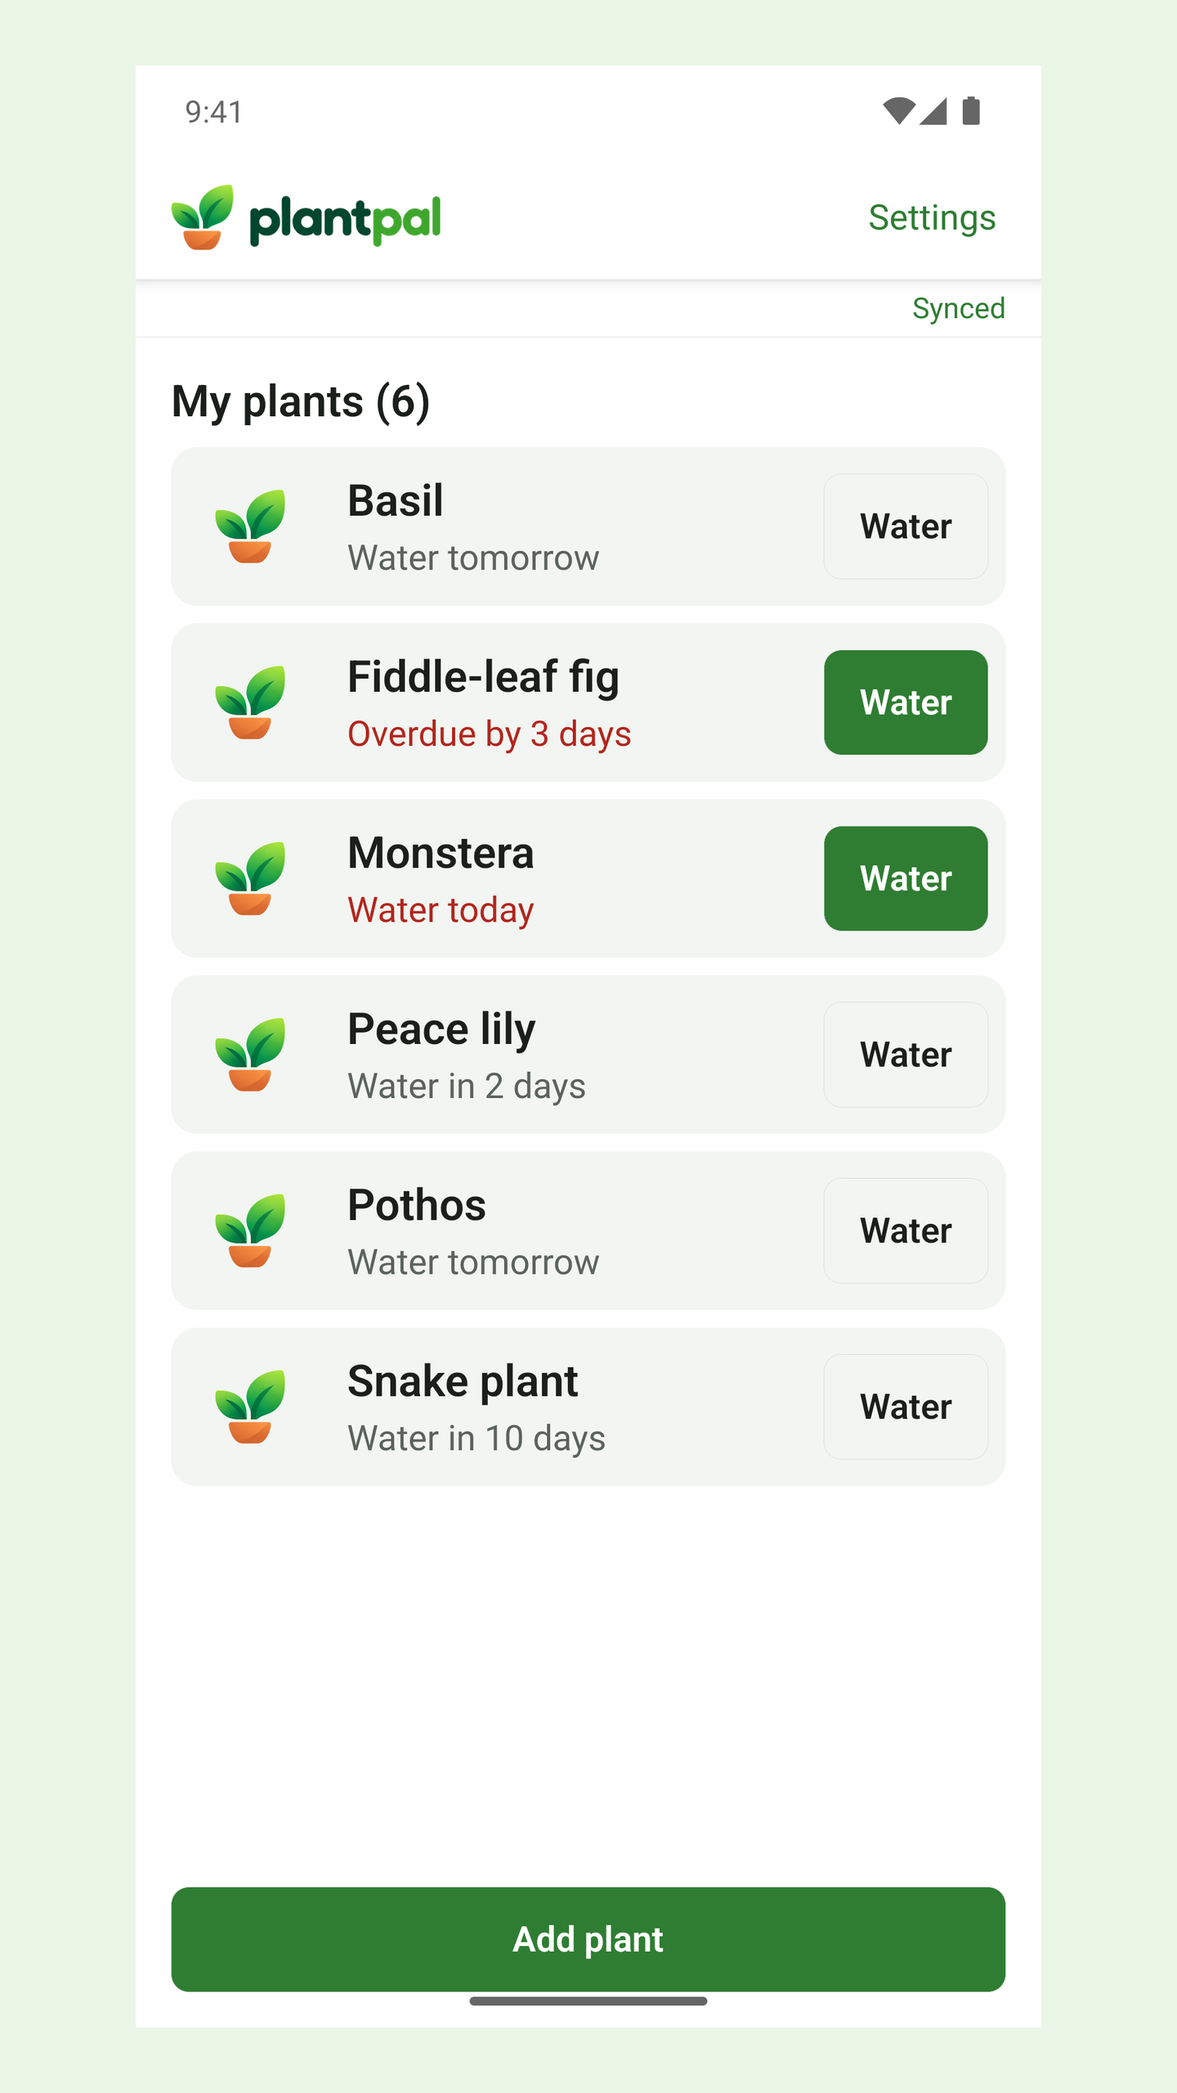
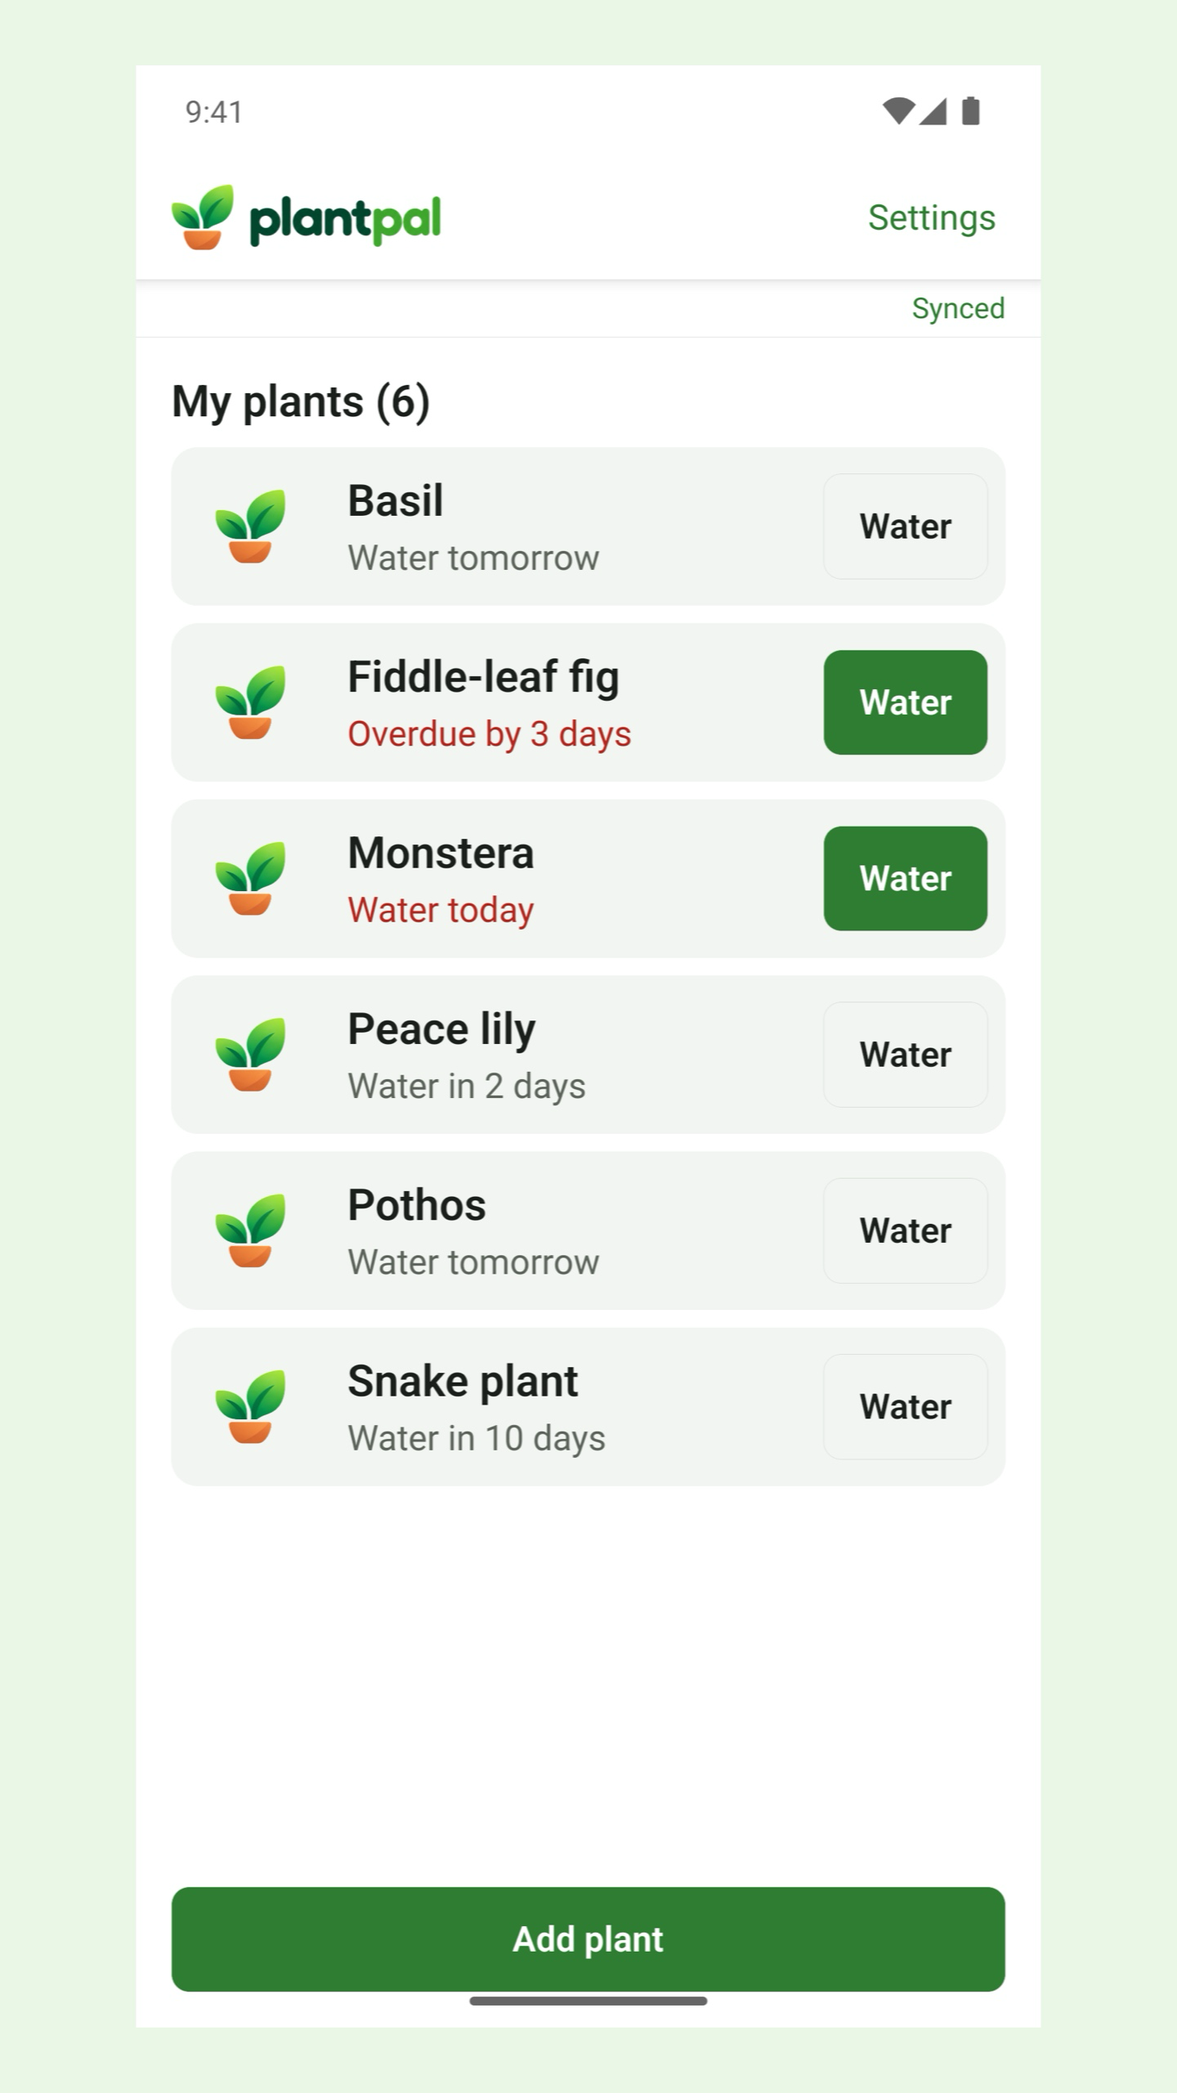
docs: M9.4 release prep (data safety, listings, checklist, README claims) and store screenshots in English and Spanish
Store screenshots come from seeded demo accounts (local API) with Android's demo status bar,
framed onto the 1440x2560 canvas by docs/release/screenshots/frame.sh.

diff --git a/docs/release/data-safety.md b/docs/release/data-safety.md
@@ -9,6 +9,13 @@ together.
 (purchases), Apple / Google sign-in, PostHog (optional usage analytics: a fixed event list, no
 autocapture, no session replay, opt-out in Settings). No crash-reporting or ad SDKs.
 
+**Identify with AI (M9):** the app sends a photo to our API only when the user taps "Identify with
+AI"; the API forwards it to Anthropic (Claude) and stores neither the photo nor the answer.
+Anthropic is a **service provider** processing it on our behalf (it deletes API inputs and outputs
+within 30 days and may not train on them: privacy policy, "Identify with AI"). We store one row per
+identification (time, model, result type, tokens, cost) for the daily limits, and a report's
+content when a user reports a suggestion.
+
 ## Google Play: Data safety
 
 | Question | Answer |
@@ -16,17 +23,17 @@ autocapture, no session replay, opt-out in Settings). No crash-reporting or ad S
 | Does the app collect or share any of the required user data types? | Yes |
 | Is all user data encrypted in transit? | Yes (HTTPS only: Vercel, Expo, RevenueCat, Google) |
 | Can users request that their data be deleted? | Yes: in the app (Settings > Delete account) and on the web (`/delete-account`) |
-| Is any data shared with third parties? | No. Vercel, Neon, Expo, RevenueCat and PostHog act as service providers on our behalf, which Google says is not "sharing" |
+| Is any data shared with third parties? | No. Vercel, Neon, Expo, RevenueCat, PostHog and Anthropic act as service providers on our behalf, which Google says is not "sharing" ("Transferring user data to a 'service provider' that processes it on behalf of the developer") |
 
 | Data type | Collected | Optional? | Purpose | Notes |
 |---|---|---|---|---|
 | Personal info > Email address | Yes | Optional (Apple lets users hide it) | Account management | From Apple/Google at sign-in |
 | Personal info > User IDs | Yes | Required | App functionality, Account management | Our account id; the Apple/Google subject id |
-| Photos and videos > Photos | Yes | Optional | App functionality | Plant photos the user adds; no metadata |
-| App activity > Other user-generated content | Yes | Required | App functionality | Plant names, watering intervals, watering times |
+| Photos and videos > Photos | Yes | Optional | App functionality | Plant photos the user adds; no metadata. **M9:** also sent to Anthropic (service provider) for "Identify with AI", only when tapped; not stored by us |
+| App activity > Other user-generated content | Yes | Required | App functionality | Plant names, watering intervals, watering times. **M9:** reports of AI suggestions (reason, optional note) |
 | Financial info > Purchase history | Yes | Optional (only if they buy) | App functionality | Plan and expiry; RevenueCat checks the store |
 | Device or other IDs | Yes | Optional (only with reminders on) | App functionality | Expo push token |
-| App activity > App interactions | Yes | Optional (opt-out in Settings) | Analytics | Fixed PostHog events (plant added/watered, photo added, reminders on, paywall viewed, purchase completed), linked to the random account id |
+| App activity > App interactions | Yes | Optional | Analytics, **App functionality (M9)** | Fixed PostHog events (plant added/watered, photo added, reminders on, paywall viewed, purchase completed), linked to the random account id, opt-out in Settings. **M9:** a record of each "Identify with AI" use (time, result type, cost) to enforce the daily limits |
 
 Not collected: location, name, contacts, messages, health, files, calendar, web history, crash logs, diagnostics, advertising ID. (PostHog adds the app version and phone model to events; that is part of the App interactions entry, not diagnostics.)
 
@@ -42,7 +49,7 @@ Not collected: location, name, contacts, messages, health, files, calendar, web 
 | Identifiers > User ID | Yes | No | App Functionality |
 | Identifiers > Device ID | Yes | No | App Functionality (push token) |
 | Purchases > Purchase History | Yes | No | App Functionality, Analytics (RevenueCat's own guidance says to select both) |
-| Usage Data > Product Interaction | Yes | No | Analytics (PostHog events; optional, opt-out in Settings) |
+| Usage Data > Product Interaction | Yes | No | Analytics (PostHog events; optional, opt-out in Settings), App Functionality (M9: AI identification records for the limits) |
 
 Not collected: Diagnostics (RevenueCat states it doesn't collect them; we ship no crash reporter), Location, Health, Financial Info, Contacts, Browsing/Search History, Sensitive Info.
 
@@ -64,3 +71,17 @@ Not collected: Diagnostics (RevenueCat states it doesn't collect them; we ship n
 - Google Play Console Help, "Provide information for Google Play's Data safety section" (support.google.com/googleplay/android-developer/answer/10787469)
 - Apple, "App privacy details on the App Store" (developer.apple.com/app-store/app-privacy-details)
 - RevenueCat, "Apple App Privacy" (revenuecat.com/docs/platform-resources/apple-platform-resources/apple-app-privacy)
+
+## M9 changes to make in Play Console (2026-10-20)
+Data safety > edit, then:
+1. **App activity > App interactions:** add the purpose **App functionality** (AI identification
+   records enforce the daily limits). It was Analytics only.
+2. **Photos:** no change (already collected, optional, App functionality). Anthropic is a service
+   provider, so nothing becomes "shared".
+3. **Other user-generated content:** no change (reports of AI suggestions fit the existing entry).
+4. The app's language stored with the push token is a device setting, not one of Play's data types.
+
+Store listing assets: Play asks per image whether it is AI-generated ("Regulations require that
+AI-generated content be labeled under certain circumstances"). The screenshots are real captures
+of the app; one shows an AI suggestion inside the app. Your call whether to tick it for that one
+([Play Console Help](https://support.google.com/googleplay/android-developer/answer/17262077)).

diff --git a/README.md b/README.md
@@ -18,8 +18,10 @@ isn't proven.
 ## What it does
 Sign in with Google (Apple on iOS), add plants with a photo and a watering interval, and tap
 **Water**. The list shows what's due; reminders arrive the morning a plant needs water; everything
-works offline and syncs across devices. Premium unlocks unlimited plants and photo
-history. Account deletion lives in Settings.
+works offline and syncs across devices. Not sure what the plant is? **Identify with AI** suggests
+its name and watering interval from a photo, and you confirm before saving. The app is in
+**English and Spanish**. Premium unlocks unlimited plants, photo history and more AI
+identifications. Account deletion lives in Settings.
 
 ## Architecture
 
@@ -92,18 +94,20 @@ Each claim links to the evidence that proves it. ✅ proven · 🟡 partly prove
 | **EAS Update** (OTA) on a staging channel, received by an installed build | [M7](docs/evidence/m7-release.md#eas-update-on-the-staging-channel) | ✅ |
 | **EAS Submit** to Google Play | [M8](docs/evidence/m8-portfolio.md#eas-submit-gap-7) | ✅ |
 | **CI**: secret scan, lint, typecheck, tests with coverage report; manual EAS build workflow | [M6](docs/evidence/m6-quality.md#ci) | ✅ |
-| Unit, component and integration tests (Jest, React Native Testing Library, Vitest with real Postgres) | [M6](docs/evidence/m6-quality.md), [M8](docs/evidence/m8-portfolio.md#fresh-clone-definition-of-done) | ✅ 190 tests, also from a fresh clone |
-| **Maestro** end-to-end flows: sign in, add offline then sync, paywall | [M6](docs/evidence/m6-quality.md#end-to-end-maestro-android-emulator-api-33-development-build) | 🟡 each passes alone; back-to-back runs flaky on the dev build |
+| Unit, component and integration tests (Jest with the React Compiler on, React Native Testing Library, Vitest with real Postgres) | [M6](docs/evidence/m6-quality.md), [M8](docs/evidence/m8-portfolio.md#fresh-clone-definition-of-done), [M9.3](docs/evidence/m9-ai-and-spanish.md#tests-1) | ✅ 248 tests, also from a fresh clone |
+| **Maestro** end-to-end flows: sign in, add offline then sync, paywall, add a plant with AI, switch language | [M6](docs/evidence/m6-quality.md#end-to-end-maestro-android-emulator-api-33-development-build) | 🟡 each passes alone; back-to-back runs flaky on the dev build |
 | Accessibility labels, roles, large text | [M6](docs/evidence/m6-quality.md#accessibility) | ✅ |
 | Performance check of the list | [M6](docs/evidence/m6-quality.md#performance-check-the-plant-list) | 🟡 query measured (1.4 ms / 1,000 plants); scroll smoothness not measured on a device |
 | **Analytics and a feature flag** with PostHog (privacy-first, opt-out) | [M8](docs/evidence/m8-portfolio.md#analytics-and-feature-flag-posthog-gap-9) | ✅ events from the Play build; A/B data not yet meaningful (one tester) |
 | Privacy policy, support and data-deletion pages; store privacy answers | [M7](docs/evidence/m7-release.md#privacy-support-and-deletion-pages-live), [data safety](docs/release/data-safety.md) | ✅ |
+| **Identify with AI** (Claude, server-side): structured output validated on both sides, pre-fill only, daily limits, spending guard, report button | [M9.1](docs/evidence/m9-ai-and-spanish.md#m91-api-2026-10-19), [M9.2](docs/evidence/m9-ai-and-spanish.md#m92-app-2026-10-20) | 🟡 tested and run on the emulator against the local API; not yet in a store build |
+| AI **evaluation**: 25 photos, 3 configurations, accuracy, latency and cost measured; model chosen from the numbers | [M9.1 evaluation](docs/evidence/m9-ai-and-spanish.md#evaluation) | ✅ Sonnet 5.5: 37/40 plant photos right, $0.0058 per identification |
+| **English and Spanish**: every screen, errors, notifications (local and server push), web pages, store listing; switch in Settings and on sign-in | [M9.3](docs/evidence/m9-ai-and-spanish.md#m93-spanish-2026-10-20) | 🟡 on the emulator; not yet in a store build |
 
 ## Roadmap
 | Next | What | Plan |
 |---|---|---|
-| **M9** | **Identify with AI:** take a photo and Claude suggests the plant's name and watering interval (pre-filled, the user confirms). Server-side Claude API calls, daily limits, an evaluation set, privacy and Play AI-policy updates. | [docs/prompts/M9_AI_AND_SPANISH.md](docs/prompts/M9_AI_AND_SPANISH.md) |
-| **M9** | **Spanish:** the whole app, notifications, web pages and store listing in English and Spanish; follows the phone's language, with a switch in Settings and on the sign-in screen. | same |
+| **M9** | Identify with AI and Spanish: built and tested (see the claims above); waiting for build 7 and internal testing | [plan](docs/M9_PLAN.md), [evidence](docs/evidence/m9-ai-and-spanish.md) |
 | Later | iOS release (TestFlight, App Store) once the Apple developer account is approved | [release checklist](docs/release/RELEASE_CHECKLIST.md) |
 
 ## Run it locally

diff --git a/docs/release/store-listing.md b/docs/release/store-listing.md
@@ -1,5 +1,7 @@
 # Store listing (App Store and Google Play)
 
+Spanish (es-419): [`store-listing.es.md`](store-listing.es.md). Updated for M9 (AI identification, Spanish) on 2026-10-20.
+
 Draft text, ready to paste. Character counts were checked by script against each store's limit.
 Every claim matches a feature with evidence in `docs/evidence/`.
 
@@ -19,16 +21,20 @@ PlantPal remembers which plant needs water, so you don't have to.
 
 Add your plants, say how often each one needs water, and tap Water when you water it. Your list always shows what is due today, what is overdue and what can wait.
 
+• Not sure what plant it is? Take a photo and tap Identify with AI for a suggested name and watering interval. You check it before saving.
 • Reminders on the morning a plant is due, plus a daily nudge if one is overdue
 • Works without internet: everything is saved on your phone and syncs when you are back online
 • The same plants on all your devices: sign in with Apple or Google
 • A photo history for each plant
 • Undo a watering you tapped by mistake
+• In English and Spanish
 
-Free: up to 3 plants, with one photo each.
-Premium: unlimited plants and photo history. Monthly, yearly or a one-time lifetime purchase.
+Free: up to 3 plants, with one photo each, and 3 AI identifications a day.
+Premium: unlimited plants, photo history and up to 30 AI identifications a day. Monthly, yearly or a one-time lifetime purchase.
 
 No ads. No tracking. Delete your account and all your data from Settings at any time.
+
+AI suggestions can be wrong: always check them. The photo goes to Anthropic only when you tap Identify with AI, and PlantPal doesn't keep it.
 
 Privacy policy: https://plantpal-api.vercel.app/privacy
 
@@ -46,9 +52,10 @@ Payment is charged to your Apple ID or Google account at confirmation of purchas
 Google requires credentials, and reviewers may not use personal accounts for purchases. So a dedicated review Google account (no personal data, 2-step verification off) is entered in Play Console > **Sign in details**, never in this repo. It is a **license tester** (free test purchases) and was a test user on the Google consent screen while it was in Testing.
 
 ## Screenshots
-Alt text (≤ 140 characters): "Plant list showing which plants need water today", "Guide listing everything PlantPal can do", "Monstera detail with its watering history".
+Four per language in [`screenshots/`](screenshots/) (English) and [`screenshots/es/`](screenshots/es/), made as described in [`screenshots/README.md`](screenshots/README.md).
+Alt text (≤ 140 characters): "Plant list showing which plants need water today", "AI suggestion with the plant's name and how often to water it", "Guide listing everything PlantPal can do", "Monstera detail with its watering history".
 
 | Store | Required | Status |
 |---|---|---|
-| Google Play (phone) | 2–8; max side ≤ 2 × min side; no alpha; 4+ at 9:16 ≥ 1080 px for promotion | **3 ready** in `docs/release/screenshots/` (list, guide, detail): captured on the emulator with a clean demo status bar, fitted onto a 1440 × 2560 (9:16) brand-colored canvas because the raw 1440 × 3120 captures exceed 2:1. One more needed for promotion: the paywall, retaken from a store build (the dev build shows "Test purchases only") |
+| Google Play (phone) | 2–8; max side ≤ 2 × min side; no alpha; 4+ at 9:16 ≥ 1080 px for promotion | **4 ready per language (M9, 2026-10-20)**: list, AI suggestion, guide, detail; demo status bar; 1440 × 2560, no alpha. Earlier: **3 ready** in `docs/release/screenshots/` (list, guide, detail): captured on the emulator with a clean demo status bar, fitted onto a 1440 × 2560 (9:16) brand-colored canvas because the raw 1440 × 3120 captures exceed 2:1. One more needed for promotion: the paywall, retaken from a store build (the dev build shows "Test purchases only") |
 | App Store (6.9" iPhone, 1320 × 2868) | 1–10 | **Not yet:** needs an iOS build, which needs Xcode ≥ 26.4 (this Mac has 26.2) or an EAS cloud build installed on a simulator |

diff --git a/docs/release/RELEASE_CHECKLIST.md b/docs/release/RELEASE_CHECKLIST.md
@@ -54,3 +54,19 @@ Status as of 2026-10-16. ✅ done and verified · 🟡 done in code, waiting on 
 - **Real purchases on a device:** sandbox testers (Apple) and license testers (Google) must be your accounts.
 - **Physical-phone checks:** scroll smoothness on a release build, and real push on iOS (needs a device).
 - **Review submission:** your explicit "submit".
+
+## 6. M9 release: Identify with AI and Spanish (build 7)
+Status as of 2026-10-20.
+
+| | Step | Owner |
+|---|---|---|
+| ✅ | `ANTHROPIC_API_KEY` on Vercel Production (Secret); `AI_DAILY_LIMIT` unset = $1/day default | you |
+| ⬜ | Recommended before real users: a separate "PlantPal" Anthropic workspace with a monthly spend limit, and a key that doesn't expire Nov 18, 2026 (or a rotation date) | you |
+| ⬜ | **"push"**: deploys the API (identify and report routes, Spanish pages, updated privacy policy) and runs migrations 0004 (AI tables) and 0005 (device language) on Neon. Safe for the live app: v6 never calls the new routes; existing devices default to English | you say, me |
+| ⬜ | Check production after the push: `/api/health`, `/privacy` and `/es/privacy` show the AI section, one identification from curl with a test account | me |
+| ⬜ | **Build 7** (`eas build --profile production --platform android`; native changes: per-app language, iOS locales). Auto-submits to the internal track as a **draft** | you OK, me |
+| ⬜ | Play Console: roll out the internal-testing draft to testers | you |
+| ⬜ | Internal testing on your phone, both languages: identify a plant, report a suggestion, switch language in Settings and on sign-in, Android per-app language setting, a Spanish reminder | you + me |
+| ⬜ | Play Console: Data safety change (App interactions + App functionality), see `data-safety.md` "M9 changes" | you |
+| ⬜ | Play Console: Spanish (es-419) listing translation from `store-listing.es.md`; updated English text from `store-listing.md`; new screenshots from `screenshots/` | you |
+| ⬜ | Production review submission: **only after you say "submit"** | you |

diff --git a/docs/release/screenshots/README.md b/docs/release/screenshots/README.md
@@ -1,0 +1,30 @@
+# Store screenshots
+
+Google Play phone screenshots, 1440 × 2560 (9:16), no alpha, from the Android emulator.
+
+| File | Screen |
+|---|---|
+| `android-1-list.png` · `es/android-1-list.png` | Plant list with every watering state |
+| `android-2-ai.png` · `es/android-2-ai.png` | Identify with AI: the suggestion labeled as AI, form pre-filled |
+| `android-3-guide.png` · `es/android-3-guide.png` | Guide |
+| `android-4-detail.png` · `es/android-4-detail.png` | Plant detail with its watering history |
+
+## How they're made
+1. Local API and database running; seed a demo account per language:
+   `node apps/api/scripts/seed-store-demo.mjs store-en-1 en` (and `store-es-1 es`).
+2. Android demo status bar (clean 9:41 clock, full battery, no notification icons):
+   ```sh
+   adb shell settings put global sysui_demo_allowed 1
+   adb shell am broadcast -a com.android.systemui.demo -e command enter
+   adb shell am broadcast -a com.android.systemui.demo -e command clock -e hhmm 0941
+   adb shell am broadcast -a com.android.systemui.demo -e command battery -e level 100 -e plugged false
+   adb shell am broadcast -a com.android.systemui.demo -e command network -e wifi show -e level 4
+   adb shell am broadcast -a com.android.systemui.demo -e command network -e mobile show -e level 4 -e datatype none
+   adb shell am broadcast -a com.android.systemui.demo -e command notifications -e visible false
+   ```
+3. `maestro test -e LANG=en -e USER=store-en-1 apps/mobile/e2e/tools/store-shots.yaml`
+   (one Claude call, ~$0.006). Then the same with `LANG=es -e USER=store-es-1`.
+4. Frame each capture: `docs/release/screenshots/frame.sh raw.png android-1-list.png`.
+
+Play asks per image whether it's AI-generated: these are real captures of the app. The AI
+screenshot shows a suggestion produced by the app's AI feature; see `docs/release/data-safety.md`.
